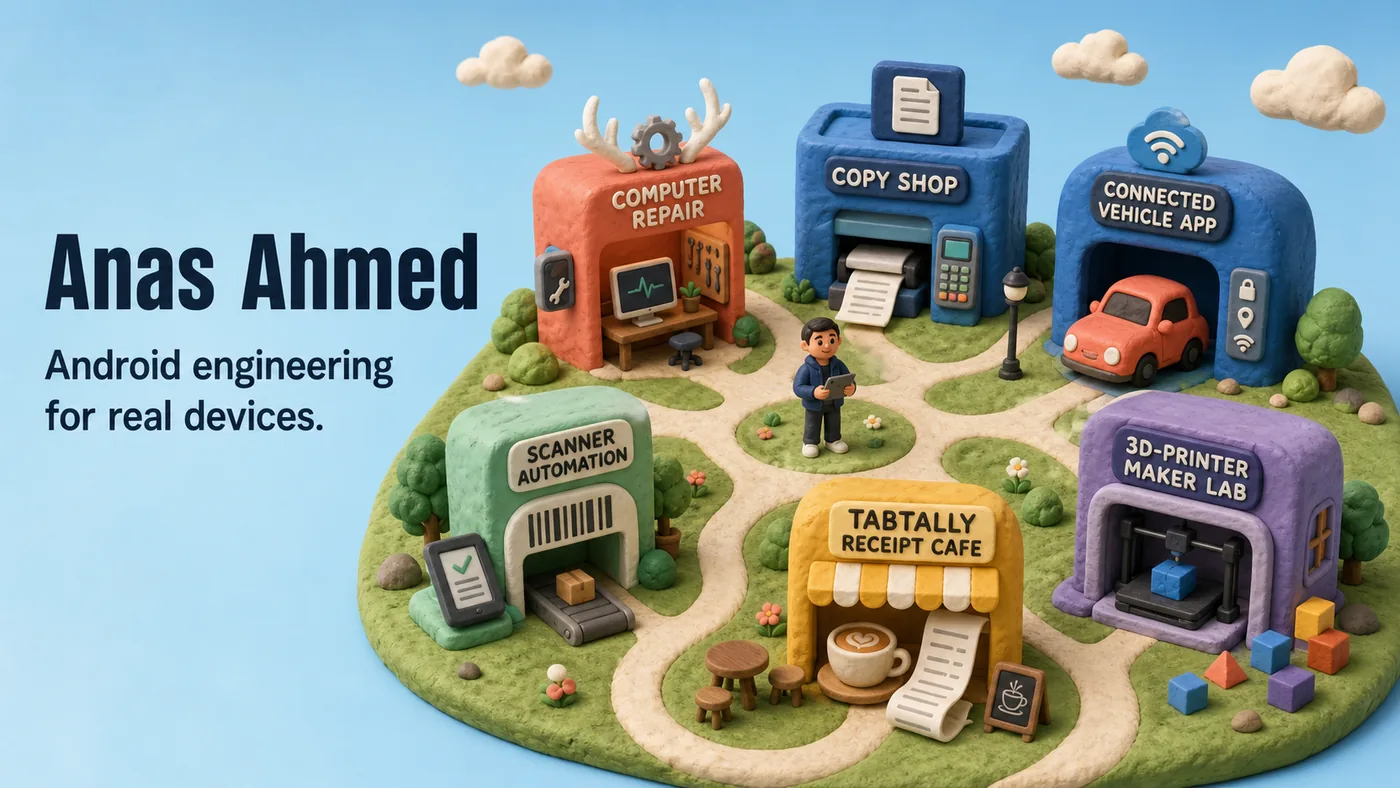
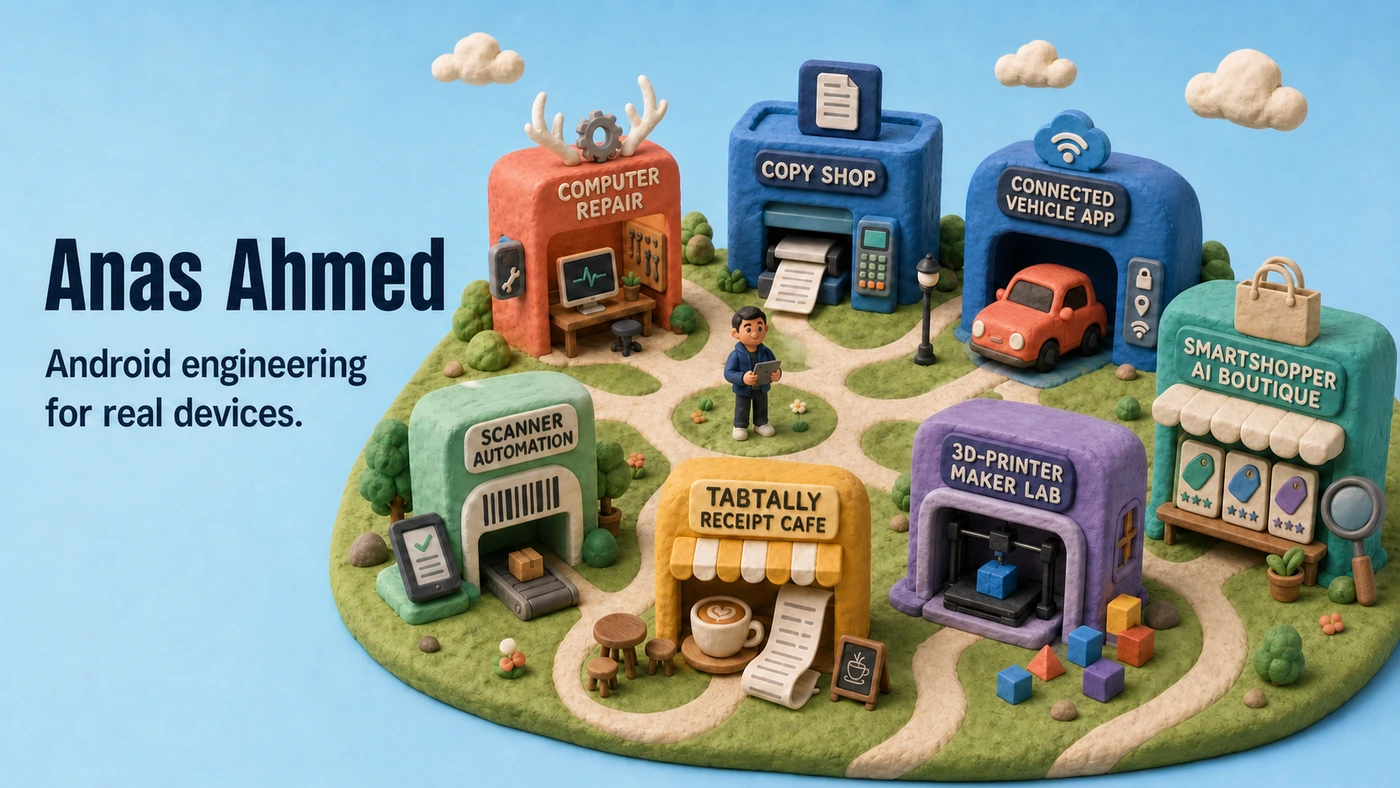
Add SmartShopper campus landmark

diff --git a/app/components/ClayCampus.tsx b/app/components/ClayCampus.tsx
@@ -52,7 +52,7 @@ const BUILDING_COLLISION_PADDING = 0.7;
 const BUILDING_TOUCH_RADIUS = 1.25;
 const TREE_POSITIONS = [
   [-12, -8], [-11, 1], [-12, 10], [-5, 10], [4, 10], [12, 10],
-  [12, 1], [12, -9], [5, -12], [-6, -12], [-3, 3], [3, 3],
+  [16, 7], [12, -9], [5, -12], [-6, -12], [-3, 3], [3, 3],
 ] as const;
 const TREE_CROWN_OFFSETS = [
   new THREE.Vector3(0, 1.85, 0),
@@ -923,6 +923,80 @@ function Building({
       );
     }
 
+    if (zone.visual === "shopping-boutique") {
+      const tierColors = ["#7dd889", "#ffbf3f", "#ff7b6d"];
+      return (
+        <>
+          <ClayRoundedBox seed="shopper-shell" deformation={0.028} args={[4.6, 3.55, 4.1]} radius={0.82} smoothness={6} position={[0, 1.78, 0]} rotation={[0.006, -0.008, 0.01]} castShadow receiveShadow>
+            <ClayMaterial color={zone.color} roughness={0.94} normalStrength={0.28} />
+          </ClayRoundedBox>
+          <ClayRoundedBox seed="shopper-sign" deformation={0.024} args={[3.55, 0.48, 0.28]} radius={0.2} smoothness={4} position={[0, 3.18, 2.15]} rotation={[0, 0, -0.018]} castShadow>
+            <ClayMaterial color="#25334a" roughness={0.92} normalStrength={0.2} />
+          </ClayRoundedBox>
+          <group position={[0, 2.58, 2.26]}>
+            {[-1.45, -0.72, 0, 0.72, 1.45].map((panelX, index) => (
+              <ClayRoundedBox
+                seed={`shopper-awning-${index}`}
+                deformation={0.024}
+                key={panelX}
+                args={[0.78, 0.58, 0.62]}
+                radius={0.16}
+                smoothness={4}
+                position={[panelX, 0, 0]}
+                rotation={[0.18, 0, (index - 2) * 0.008]}
+                castShadow
+              >
+                <ClayMaterial color={index % 2 ? "#fff4df" : "#d9fff5"} roughness={0.95} normalStrength={0.21} />
+              </ClayRoundedBox>
+            ))}
+          </group>
+          <group position={[-1.05, 1.35, 2.22]} rotation={[0, 0, -0.018]}>
+            <ClayRoundedBox seed="shopper-display-frame" deformation={0.023} args={[1.95, 1.55, 0.3]} radius={0.24} smoothness={5}>
+              <ClayMaterial color="#25334a" roughness={0.9} normalStrength={0.2} />
+            </ClayRoundedBox>
+            <RoundedBox args={[1.62, 1.2, 0.08]} radius={0.18} smoothness={4} position={[0, 0, 0.2]}>
+              {glass}
+            </RoundedBox>
+            {[-0.52, 0, 0.52].map((cardX, index) => (
+              <ClayRoundedBox
+                seed={`shopper-tier-${index}`}
+                deformation={0.02}
+                key={cardX}
+                args={[0.38, 0.66 + index * 0.12, 0.1]}
+                radius={0.08}
+                smoothness={3}
+                position={[cardX, -0.08 + index * 0.05, 0.29]}
+              >
+                <ClayMaterial color={tierColors[index]} roughness={0.9} normalStrength={0.14} />
+              </ClayRoundedBox>
+            ))}
+            <mesh position={[-0.55, 0.42, 0.31]} rotation={[0, 0, 0.08]}>
+              <torusGeometry args={[0.21, 0.055, 9, 20]} />
+              <meshStandardMaterial color="#fff4df" roughness={0.9} />
+            </mesh>
+            <ClayMesh seed="shopper-search-handle" deformation={0.025} position={[-0.36, 0.22, 0.31]} rotation={[0, 0, -0.72]}>
+              <cylinderGeometry args={[0.045, 0.055, 0.42, 9]} />
+              <ClayMaterial color="#fff4df" roughness={0.92} normalStrength={0.12} />
+            </ClayMesh>
+          </group>
+          <group position={[1.18, 0, 0]}>{door}</group>
+          <group position={[0, 4.28, 0.15]}>
+            <ClayRoundedBox seed="shopper-bag" deformation={0.028} args={[1.35, 1.05, 0.42]} radius={0.26} smoothness={5} position={[0, 0, 0]} castShadow>
+              <ClayMaterial color="#fff4df" roughness={0.95} normalStrength={0.21} />
+            </ClayRoundedBox>
+            <ClayMesh seed="shopper-bag-handle" deformation={0.026} preserveBase={false} position={[0, 0.52, 0.03]} rotation={[0, 0, 0]} castShadow>
+              <torusGeometry args={[0.4, 0.095, 10, 24, Math.PI]} />
+              <ClayMaterial color="#25334a" roughness={0.94} normalStrength={0.18} />
+            </ClayMesh>
+            <mesh position={[0, 0.02, 0.24]}>
+              <circleGeometry args={[0.13, 12]} />
+              <meshStandardMaterial color="#ffbf3f" emissive="#ffbf3f" emissiveIntensity={0.18} roughness={0.8} />
+            </mesh>
+          </group>
+        </>
+      );
+    }
+
     return (
       <>
         <ClayRoundedBox seed="maker-base" deformation={0.028} args={[5.1, 0.42, 4.15]} radius={0.18} smoothness={4} position={[0, 0.23, 0]} rotation={[0, 0.006, -0.006]} receiveShadow>
@@ -1670,7 +1744,7 @@ export default function ClayCampus() {
             <p>ANAS AHMED’S INTERACTIVE PORTFOLIO</p>
             <h1 id="welcome-title">Walk through the work, or get the facts.</h1>
             <span>
-              The clay campus turns four projects, my repair-shop origin, and
+              The clay campus turns five projects, my repair-shop origin, and
               my maker hobbies into places you can visit.
             </span>
             <div className="welcome-actions">
@@ -1695,7 +1769,7 @@ export default function ClayCampus() {
           </div>
 
           <div className="welcome-preview" aria-label="Preview of the clay campus">
-            <div className="welcome-preview-image" role="img" aria-label="Colorful clay campus with six project and personal landmarks" />
+            <div className="welcome-preview-image" role="img" aria-label="Colorful clay campus with seven project and personal landmarks" />
             <div className="welcome-player-card">
               <span className="welcome-player-avatar" aria-hidden="true">
                 <i />
@@ -1821,7 +1895,12 @@ export default function ClayCampus() {
             {activeZone.tech.map((tech) => <span key={tech}>{tech}</span>)}
           </div>
           {activeZone.link && (
-            <a className="overlay-primary" href={activeZone.link.href}>
+            <a
+              className="overlay-primary"
+              href={activeZone.link.href}
+              target={activeZone.link.external ? "_blank" : undefined}
+              rel={activeZone.link.external ? "noreferrer" : undefined}
+            >
               {activeZone.link.label} <ArrowRight weight="bold" />
             </a>
           )}

diff --git a/app/data/portfolio.ts b/app/data/portfolio.ts
@@ -4,6 +4,7 @@ export type CampusDestinationId =
   | "connected-vehicle"
   | "scanner-automation"
   | "tabtally"
+  | "smartshopper"
   | "hobbies";
 
 export type CampusDestination = {
@@ -15,6 +16,7 @@ export type CampusDestination = {
     | "vehicle-garage"
     | "scanner-depot"
     | "receipt-cafe"
+    | "shopping-boutique"
     | "maker-lab";
   navLabel: string;
   sceneLabel: string;
@@ -30,7 +32,7 @@ export type CampusDestination = {
   width: number;
   details: string[];
   tech: string[];
-  link?: { label: string; href: string };
+  link?: { label: string; href: string; external?: boolean };
 };
 
 export const CAMPUS_DESTINATIONS: CampusDestination[] = [
@@ -174,6 +176,36 @@ export const CAMPUS_DESTINATIONS: CampusDestination[] = [
     ],
     tech: ["Kotlin Multiplatform", "Compose", "ML Kit", "Vision", "Groq", "SQLDelight"],
     link: { label: "Explore TabTally", href: "/products/tabtally/" },
+  },
+  {
+    id: "smartshopper",
+    type: "project",
+    visual: "shopping-boutique",
+    navLabel: "SmartShopper",
+    sceneLabel: "SmartShopper AI Boutique",
+    accessibleName:
+      "Visit the SmartShopper AI Boutique and open the AI shopping assistant project",
+    kicker: "PERSONAL AI · SHOPPING RESEARCH",
+    title: "Shopping research that explains the tradeoffs.",
+    summary:
+      "I designed and deployed a custom AI shopping assistant that researches products and generates personalized recommendations based on budget, material, fit, style, seller reputation, ratings, review volume, and retailer availability.",
+    impact: "Budget-to-premium comparisons · purchase-ready links · reusable across 5+ categories",
+    color: "#27b8a6",
+    position: [12.6, 0, 0],
+    approach: [14.2, 0, 3.1],
+    height: 4.9,
+    width: 4.6,
+    details: [
+      "The workflow asks targeted clarifying questions before researching products, so each recommendation is grounded in the shopper's actual constraints.",
+      "It compares budget, mid-tier, and premium options, provides purchase-ready links, and explains the value tradeoffs across recommendations.",
+      "The reusable instruction system adapts its research to clothing, electronics, home improvement, cookware, hardware, and other shopping categories.",
+    ],
+    tech: ["Custom GPT", "Prompt Engineering", "Web Research"],
+    link: {
+      label: "Open SmartShopper",
+      href: "https://chatgpt.com/g/g-6a4be8c0f2ac8191a2e34a57b52f46ee-smartshopper",
+      external: true,
+    },
   },
   {
     id: "hobbies",

diff --git a/app/components/PortfolioExperience.tsx b/app/components/PortfolioExperience.tsx
@@ -138,9 +138,10 @@ export default function PortfolioExperience({
     [roleLens],
   );
   const employerProjects = FEATURED_PROJECTS.filter(
-    (project) => project.id !== "tabtally",
+    (project) => project.id !== "tabtally" && project.id !== "smartshopper",
   );
   const tabTally = FEATURED_PROJECTS.find((project) => project.id === "tabtally");
+  const smartShopper = FEATURED_PROJECTS.find((project) => project.id === "smartshopper");
 
   return (
     <main>
@@ -317,11 +318,13 @@ export default function PortfolioExperience({
                 </article>
                 <article className="smartshopper-card">
                   <span>AI SHOPPING ASSISTANT · PERSONAL PROJECT</span>
-                  <h3>SmartShopper</h3>
-                  <p>Custom GPT that researches products and generates personalized recommendations across budget, material, fit, style, seller reputation, ratings, review volume, and retailer availability.</p>
-                  <p>Its reusable workflow asks targeted questions, compares budget, mid-tier, and premium options, provides purchase-ready links, and explains value tradeoffs across clothing, electronics, home improvement, cookware, and hardware.</p>
-                  <small>Custom GPT · Prompt Engineering · Web Research</small>
-                  <a className="project-link" href="https://chatgpt.com/g/g-6a4be8c0f2ac8191a2e34a57b52f46ee-smartshopper" target="_blank" rel="noreferrer">Open SmartShopper ↗</a>
+                  <h3>{smartShopper?.sceneLabel ?? "SmartShopper"}</h3>
+                  <p>{smartShopper?.summary}</p>
+                  <p>{smartShopper?.details[1]}</p>
+                  <small>{smartShopper?.tech.join(" · ")}</small>
+                  {smartShopper?.link && (
+                    <a className="project-link" href={smartShopper.link.href} target="_blank" rel="noreferrer">Open SmartShopper ↗</a>
+                  )}
                 </article>
                 <article>
                   <span>ORIGIN · AGE 17</span>

diff --git a/app/layout.tsx b/app/layout.tsx
@@ -20,23 +20,23 @@ export const metadata: Metadata = {
     template: "%s · Anas Ahmed",
   },
   description:
-    "Explore Anas Ahmed’s clay campus for self-service retail, connected-vehicle mobile work, scanner automation, and TabTally.",
+    "Explore Anas Ahmed’s clay campus for enterprise Android, connected vehicles, scanner automation, TabTally, and SmartShopper AI research.",
   openGraph: {
     title: "Anas Ahmed — Android Engineering for Real Devices",
-    description: "A clay project campus for enterprise Android, connected vehicles, automation, and TabTally.",
+    description: "A seven-landmark clay project campus for enterprise Android, connected vehicles, automation, TabTally, and SmartShopper.",
     url: "https://anas-systems-campus.anas-ahmed10988004.chatgpt.site/",
     type: "website",
     images: [{
       url: "https://anas-systems-campus.anas-ahmed10988004.chatgpt.site/og.png",
       width: 1672,
       height: 941,
-      alt: "Anas Ahmed’s clay campus for Android engineering and products",
+      alt: "Anas Ahmed’s seven-landmark clay campus for Android engineering, products, and SmartShopper",
     }],
   },
   twitter: {
     card: "summary_large_image",
     title: "Anas Ahmed — Android Engineering for Real Devices",
-    description: "A clay project campus for enterprise Android, connected vehicles, automation, and TabTally.",
+    description: "A seven-landmark clay project campus for enterprise Android, connected vehicles, automation, TabTally, and SmartShopper.",
     images: ["https://anas-systems-campus.anas-ahmed10988004.chatgpt.site/og.png"],
   },
 };

diff --git a/app/campus/page.tsx b/app/campus/page.tsx
@@ -4,7 +4,7 @@ import ClayCampus from "../components/ClayCampus";
 export const metadata: Metadata = {
   title: "Interactive Project Campus",
   description:
-    "Walk through six clay landmarks covering enterprise Android, connected-vehicle mobile work, scanner automation, TabTally, and Anas Ahmed’s origin and hobbies.",
+    "Walk through seven clay landmarks covering enterprise Android, connected-vehicle mobile work, scanner automation, TabTally, SmartShopper, and Anas Ahmed’s origin and hobbies.",
 };
 
 export default function CampusPage() {

diff --git a/app/page.tsx b/app/page.tsx
@@ -4,7 +4,7 @@ import ClayCampus from "./components/ClayCampus";
 export const metadata: Metadata = {
   title: { absolute: "Anas Ahmed — Android Engineering & Products" },
   description:
-    "Explore Anas Ahmed’s clay campus for self-service retail, connected-vehicle mobile work, scanner automation, and TabTally.",
+    "Explore Anas Ahmed’s clay campus for enterprise Android, connected vehicles, scanner automation, TabTally, and SmartShopper AI research.",
 };
 
 export default function Home() {

diff --git a/README.md b/README.md
@@ -11,7 +11,7 @@ Anas Ahmed’s public home for enterprise engineering work, recruiter informatio
 - Recruiter-first TabTally product story at `/products/tabtally`
 - Keyboard-controlled campus guide (`WASD` or arrow keys)
 - Touch controls for mobile and tablet
-- Six accessible, project-specific campus landmarks and case-study dialogs
+- Seven accessible, project-specific campus landmarks and case-study dialogs
 - Campus map, reset controls, reduced-motion support, and WebGL fallback
 - Conventional Recruiter Mode with impact, experience, projects, skills, contact status, and print-to-PDF résumé
 - A no-JavaScript résumé fallback
